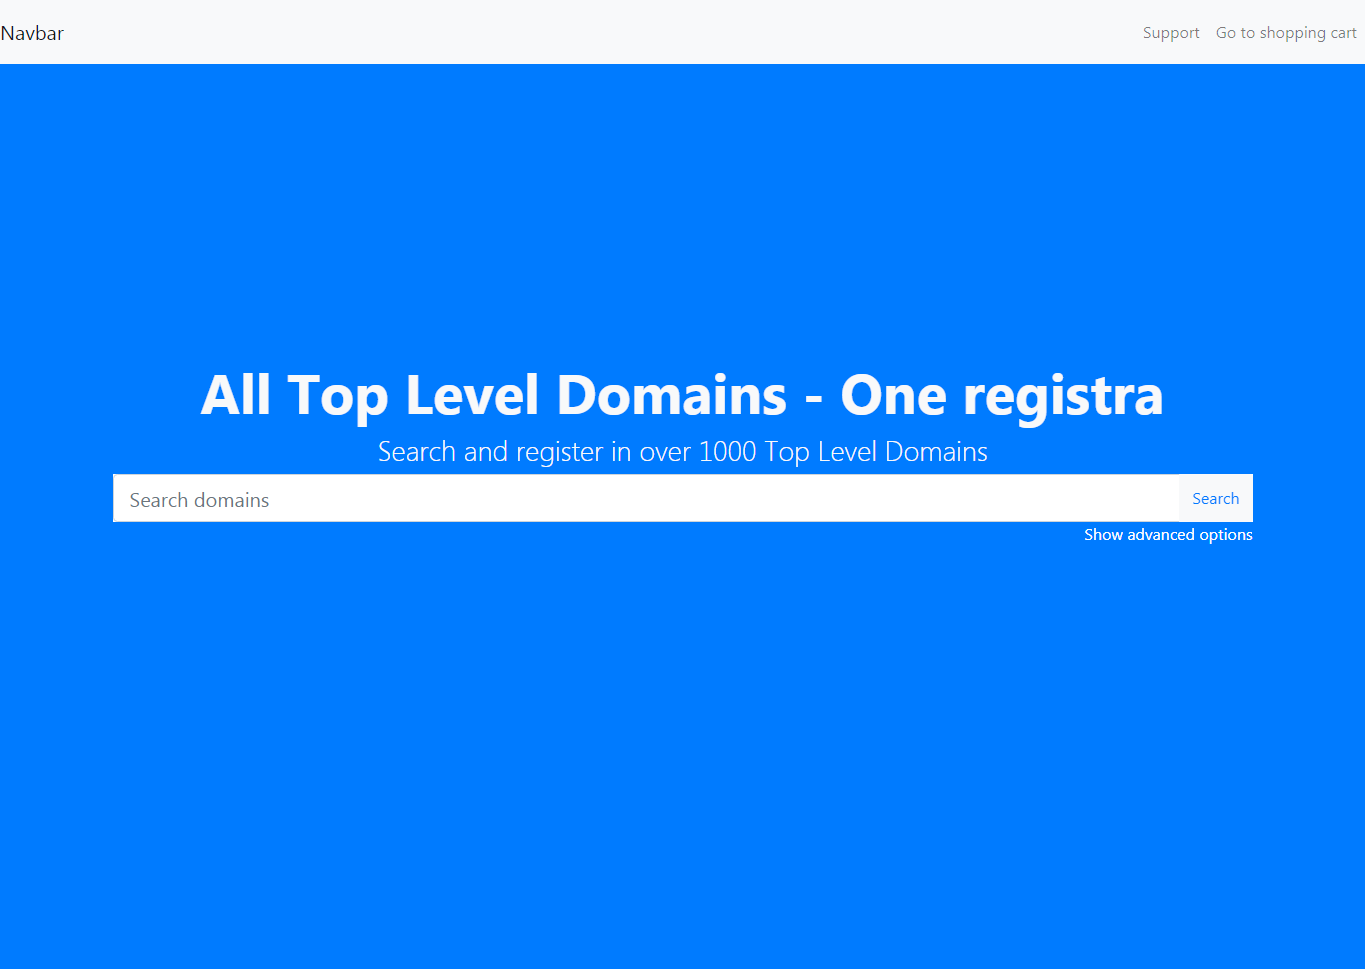
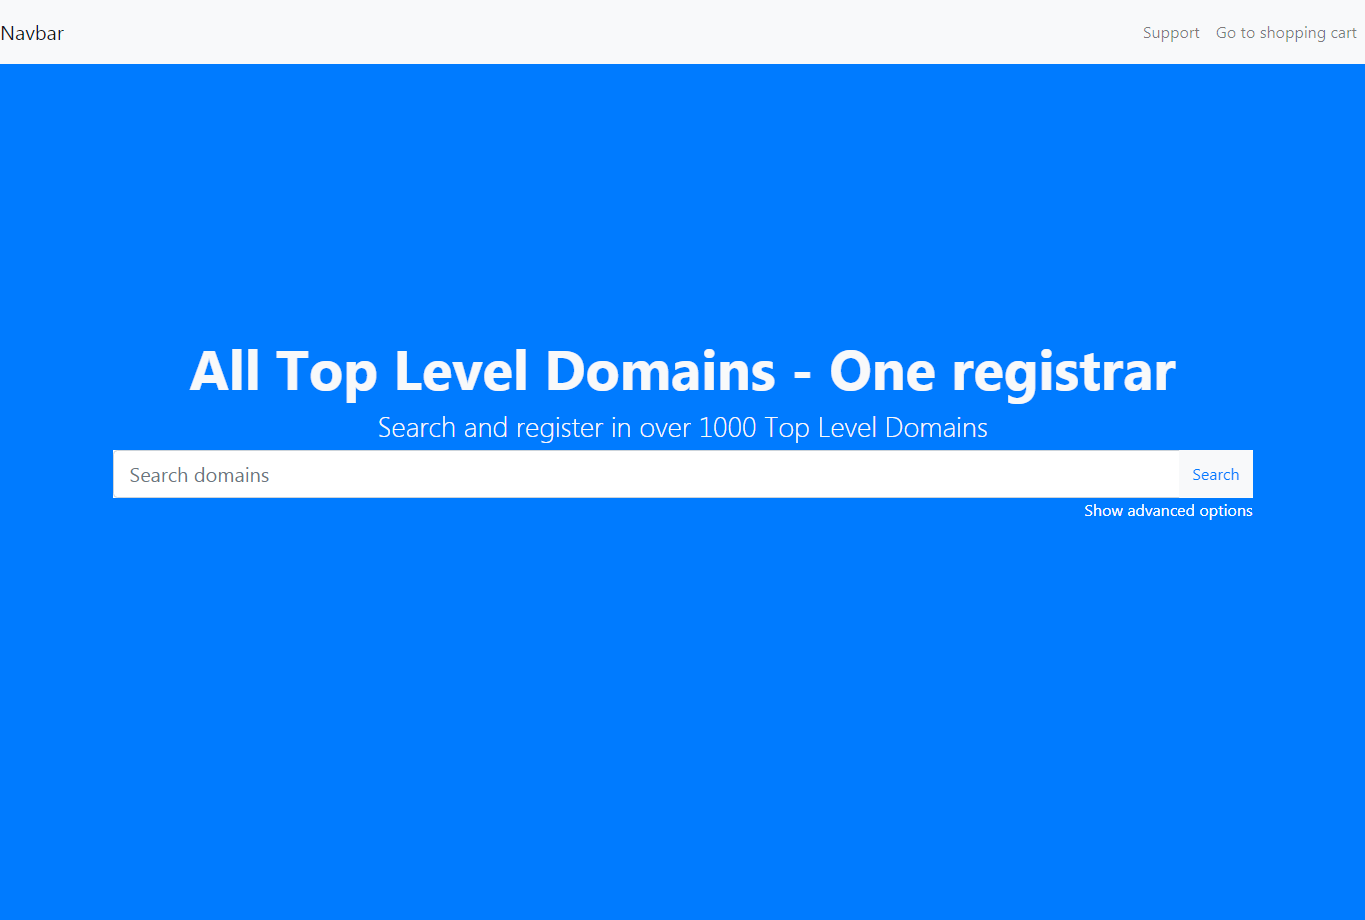
Fixed spelling

diff --git a/index.html b/index.html
@@ -108,7 +108,7 @@ display: none;
     
     
     </style>
-    <title>Hello, world!</title>
+    <title>Search domain</title>
   </head>
   <body class="bg-primary">
   
@@ -132,11 +132,11 @@ display: none;
 </nav>
 <div class="container-fluid h-100 d-flex p-3">
   <div class="container align-self-center p-0">
-<h1 class="text-light text-center display-4 font-weight-bold d-none d-lg-block">All Top Level Domains - One registra</h1>
+<h1 class="text-light text-center display-4 font-weight-bold d-none d-lg-block">All Top Level Domains - One registrar</h1>
 <h3 class="text-light text-center font-weight-light d-none d-lg-block">Search and register in over 1000 Top Level Domains</h3>
 
 
-<h3 class="text-light text-center font-weight-bold d-md-none">All Top Level Domains - One registra</h1>
+<h3 class="text-light text-center font-weight-bold d-md-none">All Top Level Domains - One registrar</h1>
 <h6 class="text-light text-center font-weight-light d-md-none">Search and register in over 1000 Top Level Domains</h3>
 
     <form id="searchForm">
